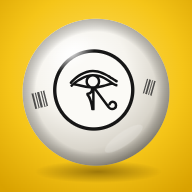
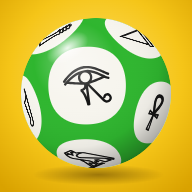
Icono: bola verde de la Primitiva con jeroglíficos

diff --git a/index.html b/index.html
@@ -7,10 +7,10 @@
 <meta name="apple-mobile-web-app-capable" content="yes">
 <meta name="apple-mobile-web-app-title" content="Loto Egipto">
 <title>Loto Egipto</title>
-<meta name="loto-version" content="1795127305">
-<link rel="manifest" href="manifest.json?v=12">
-<link rel="apple-touch-icon" href="apple-touch-icon.png?v=12">
-<link rel="icon" href="icon-192.png?v=12">
+<meta name="loto-version" content="1795127654">
+<link rel="manifest" href="manifest.json?v=13">
+<link rel="apple-touch-icon" href="apple-touch-icon.png?v=13">
+<link rel="icon" href="icon-192.png?v=13">
 <meta name="apple-mobile-web-app-status-bar-style" content="default">
 <style>
 :root{
